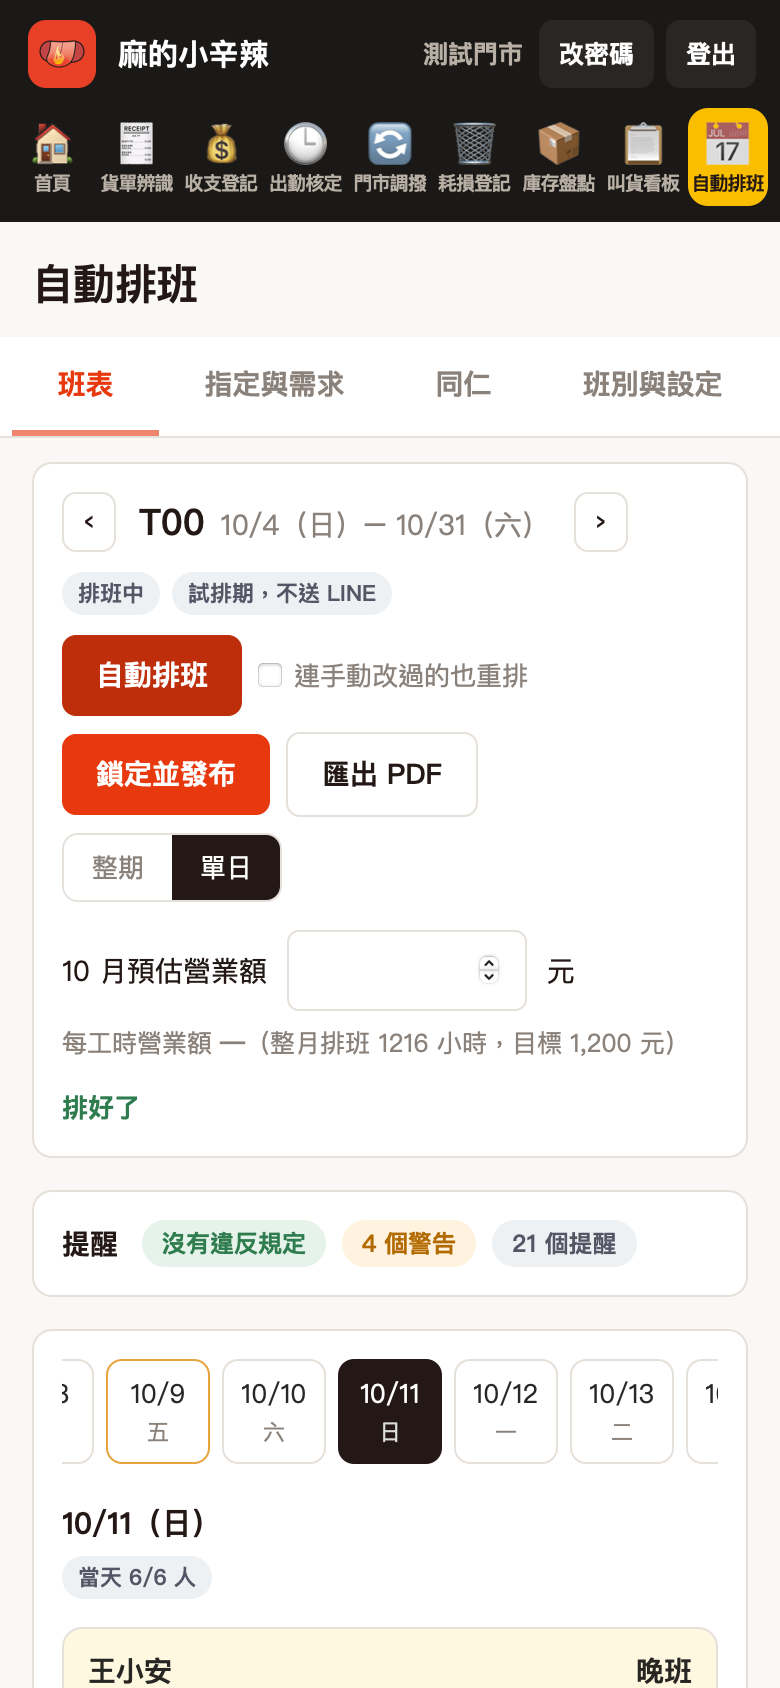
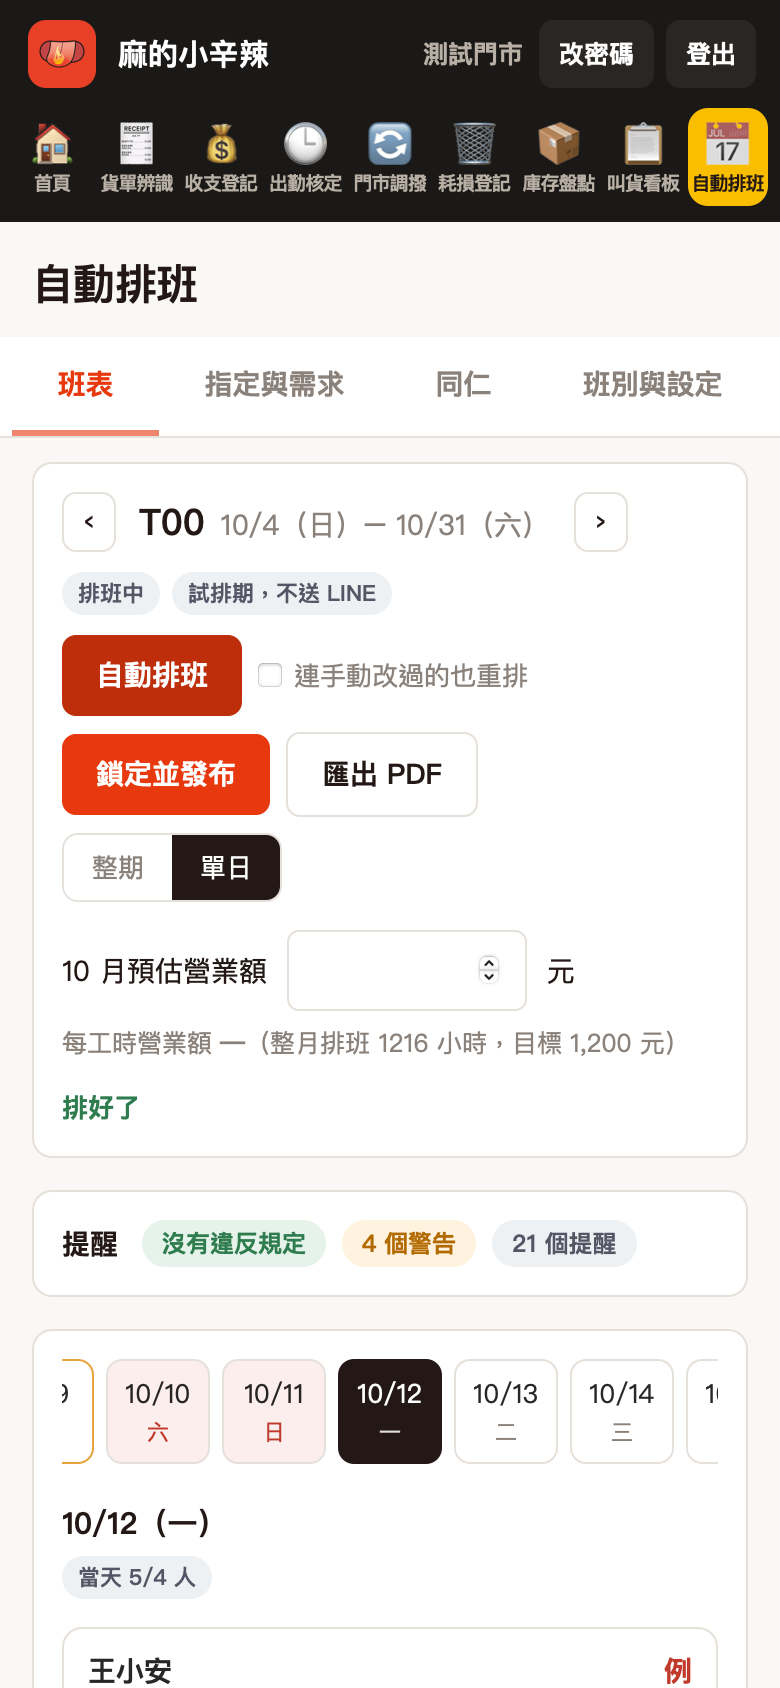
自動排班：班表新配色與休假天數欄（mala-store-ops dbd98ee）

diff --git a/css/schedule.css b/css/schedule.css
@@ -1,4 +1,4 @@
-/* 自動排班。色票沿用 tokens.css；班別底色由班別設定的顏色（--sc-shift）帶入 */
+/* 自動排班。色票沿用 tokens.css；班表格子配色見下方 .sc-grid 變數 */
 .sc-head .sc-period{display:flex;align-items:center;gap:12px}
 .sc-head .sc-period b{font-size:20px;margin-right:8px}
 .sc-range{color:var(--muted);font-size:14px;font-variant-numeric:tabular-nums}
@@ -21,37 +21,43 @@
 .sc-grid th,.sc-grid td{border-bottom:1px solid var(--line);border-right:1px solid var(--line);padding:0;text-align:center;min-width:44px;height:34px}
 .sc-grid thead th{position:sticky;top:0;background:var(--card);font-weight:700;padding:4px 2px;z-index:1}
 .sc-grid thead th small{display:block;font-weight:400;color:var(--muted)}
-.sc-grid thead th.we{background:#e9e4f7} .sc-grid thead th.we small{color:var(--red)} .sc-grid thead th.hol{background:#fff4d1}
+/* 班表配色（Eason 2026-10-12）：班別不分色、一律白底深字；例／休紅字；指定休假暖黃底；六日與國定假日整欄淡紅；生日淡綠。
+   色票集中在這幾個變數，要調色只改這裡。 */
+.sc-grid{--sc-we:#fbeeec;--sc-we-head:#f6dcd8;--sc-off-ink:#c0392b;--sc-pin:#f8ecc4;--sc-bd:#e1f1e6;--sc-bd-ink:#2e7a4f;--sc-leave-ink:#3f6aa8}
+.sc-grid thead th.we{background:var(--sc-we-head)} .sc-grid thead th.we small{color:var(--sc-off-ink)}
+.sc-grid thead th.hol small{color:var(--sc-off-ink);font-weight:700}
 .sc-grid .sc-name{position:sticky;left:0;background:var(--card);text-align:left;padding:0 10px;min-width:84px;z-index:2;white-space:nowrap}
-.sc-grid tbody th{position:sticky;left:0;background:var(--card);text-align:left;padding:0 10px;white-space:nowrap;font-weight:700;z-index:1}
-.sc-c{cursor:pointer;position:relative;--sh-ot:inset 0 0 0 transparent;--sh-bd:inset 0 0 0 transparent;box-shadow:var(--sh-ot),var(--sh-bd)}
-.sc-c.work{background:var(--sc-shift,#fff4d1);font-weight:700}
-.sc-c.ot{--sh-ot:inset 0 -3px 0 #b26a00}
-.sc-c.rest{background:#f1eeeb;color:var(--muted)} .sc-c.off{background:#f7f5f3;color:var(--muted)}
-.sc-c.leave{background:#e8f0fb;color:#2c5aa0}
-/* 六日：整欄淡紫底（有班的格子把班別色往紫色調深）；生日：薄荷綠底＋綠字，班別色改成左邊色條（Eason 2026-10-12） */
-.sc-c.we.rest,.sc-c.we.off,.sc-c.we.empty,.sc-cnt td.we{background:#e9e4f7} .sc-c.we.leave{background:#dfe3f7}
-.sc-c.we.work{background:color-mix(in srgb,var(--sc-shift,#fff4d1) 72%,#a693e0)}
-.sc-c.bd,.sc-c.bd.work,.sc-c.bd.rest,.sc-c.bd.off,.sc-c.bd.leave,.sc-c.bd.empty{background:#cfeedd;color:#1f6b45} .sc-c.bd.work{--sh-bd:inset 6px 0 0 var(--sc-shift,#fff4d1)}
-.sc-c.bd .sc-bd,.sc-drow.bd .sc-bd{color:#1f6b45}
+.sc-grid tbody th{position:sticky;left:0;background:var(--card);text-align:left;padding:4px 10px;white-space:nowrap;font-weight:700;z-index:1}
+.sc-al{display:block;font-size:10px;font-weight:400;color:var(--muted);line-height:1.3}
+.sc-c{cursor:pointer;position:relative;background:#fff;--sh-ot:inset 0 0 0 transparent;box-shadow:var(--sh-ot)}
+.sc-c.work{color:var(--black);font-weight:600}
+.sc-c.ot{--sh-ot:inset 0 -2px 0 #c98a2b}
+.sc-c.rest,.sc-c.off{color:var(--sc-off-ink);font-weight:600}
+.sc-c.leave{color:var(--sc-leave-ink);font-weight:600}
+.sc-c.we{background:var(--sc-we)}
+.sc-c.bd{background:var(--sc-bd)}
+.sc-c.pin-off,.sc-c.pin-off.we,.sc-c.pin-off.bd{background:var(--sc-pin)}
 .sc-c.na{background:repeating-linear-gradient(45deg,#faf8f6,#faf8f6 4px,#f1eeeb 4px,#f1eeeb 8px);cursor:default}
 .sc-c.pin::after{content:"";position:absolute;top:3px;right:3px;width:5px;height:5px;border-radius:50%;background:var(--black)}
 .sc-c.i-block{outline:2px solid var(--bad);outline-offset:-2px} .sc-c.i-warn{outline:2px solid #e8a33d;outline-offset:-2px}
 .sc-c.sel{outline:3px solid var(--black);outline-offset:-3px}
-.sc-bd{display:block;font-style:normal;font-size:9px;color:var(--red);font-weight:700;line-height:1}
+.sc-bd{display:block;font-style:normal;font-size:9px;color:var(--sc-bd-ink,#2e7a4f);font-weight:700;line-height:1}
+.sc-grid .sc-offh{position:sticky;right:0;z-index:2;border-left:1px solid var(--line);min-width:58px}
+.sc-grid .sc-off{position:sticky;right:0;background:#faf8f6;border-left:1px solid var(--line);font-variant-numeric:tabular-nums;padding:2px 4px}
+.sc-off b{display:block;font-size:13px} .sc-off small{display:block;font-size:10px;color:var(--muted);white-space:nowrap}
 .sc-rev{width:64px;border:1px solid var(--line);border-radius:4px;padding:3px;font:inherit;font-size:11px;text-align:right}
 .sc-ratio.low,.low{color:#b26a00;font-weight:700} .sc-ratio.good,.good{color:var(--ok)}
-.sc-cnt td{font-size:11px;color:var(--muted)} .sc-cnt td.short{color:var(--bad);font-weight:700;background:#fdf0ee}
+.sc-cnt td{font-size:11px;color:var(--muted)} .sc-cnt td.we{background:var(--sc-we)} .sc-cnt td.short{color:var(--bad);font-weight:700;background:#fdf0ee}
 .sc-total{margin:10px 4px 0}
 .sc-days{display:flex;gap:6px;overflow-x:auto;padding-bottom:4px}
 .sc-daychip{border:1px solid var(--line);background:#fff;border-radius:8px;padding:6px 8px;font:inherit;font-size:13px;min-width:52px;cursor:pointer}
 .sc-daychip small{display:block;color:var(--muted);font-size:11px}
 .sc-daychip.on{background:var(--black);color:#fff;border-color:var(--black)} .sc-daychip.on small{color:#ddd}
-.sc-daychip.warn{border-color:#e8a33d} .sc-daychip.we:not(.on){background:#e9e4f7}
+.sc-daychip.warn{border-color:#e8a33d} .sc-daychip.we:not(.on){background:#fbeeec} .sc-daychip.we:not(.on) small{color:#c0392b}
 .sc-dlist{display:grid;gap:6px}
 .sc-drow{display:grid;grid-template-columns:1fr auto;gap:2px 10px;text-align:left;border:1px solid var(--line);border-radius:10px;padding:10px 12px;background:#fff;font:inherit;cursor:pointer}
-.sc-drow.work{background:var(--sc-shift,#fff8e1)} .sc-drow.rest,.sc-drow.off{color:var(--muted)} .sc-drow.leave{background:#eef4fc}
-.sc-drow.bd,.sc-drow.bd.work,.sc-drow.bd.leave{background:#cfeedd}
+.sc-drow.rest .sc-dv,.sc-drow.off .sc-dv{color:#c0392b} .sc-drow.leave .sc-dv{color:#3f6aa8}
+.sc-drow.bd{background:#e1f1e6} .sc-drow.pin-off{background:#f8ecc4} .sc-drow .sc-al{margin-top:2px}
 .sc-drow.i-block{border-color:var(--bad)} .sc-drow.i-warn{border-color:#e8a33d}
 .sc-dn{font-weight:700} .sc-dv{text-align:right;font-weight:700} .sc-dv small{display:block;font-weight:400;color:var(--muted)}
 .sc-dmsg{grid-column:1/-1;font-size:12px;color:var(--bad)}
@@ -89,5 +95,6 @@
   .sc-grid .sc-name{min-width:0;padding:0 3px}
   .sc-c.i-block,.sc-c.i-warn,.sc-c.sel{outline:0}
   .sc-c.pin::after{display:none}
-  .sc-c.work,.sc-c.rest,.sc-c.off,.sc-c.leave,.sc-c.empty,.sc-cnt td,.sc-grid thead th.hol,.sc-grid thead th.we{-webkit-print-color-adjust:exact;print-color-adjust:exact}
+  .sc-grid .sc-off,.sc-grid .sc-offh{position:static!important}
+  .sc-c,.sc-cnt td,.sc-off,.sc-grid thead th.we{-webkit-print-color-adjust:exact;print-color-adjust:exact}
 }

diff --git a/modules/schedule/board.js b/modules/schedule/board.js
@@ -8,7 +8,7 @@ const PUB_TEXT = { pending: '等待送到 LINE', sent: '已發布到 LINE', fail
 
 function cellText(c, shifts) {
   if (!c) return { t: '', cls: 'empty' };
-  if (c.shift_id) { const s = shifts[c.shift_id]; return { t: s ? s.name : c.shift_id, cls: 'work' + (c.day_type === 'H' ? ' ot' : ''), color: s && s.color }; }
+  if (c.shift_id) { const s = shifts[c.shift_id]; return { t: s ? s.name : c.shift_id, cls: 'work' + (c.day_type === 'H' ? ' ot' : '') }; }
   if (c.day_type === 'L') return { t: LEAVE_LABEL[c.leave] || '假', cls: 'leave' };
   if (c.day_type === 'W') return { t: '?', cls: 'empty' };
   return { t: DAY_LABEL[c.day_type] || '', cls: c.day_type === 'R' ? 'rest' : 'off' };
@@ -35,7 +35,21 @@ export function renderBoard(ctx) {
   const pub = D.meta.publication;
   const bday = (st, d) => st.birthday && st.birthday.slice(5) === d.slice(5);
   // 六日、同仁生日各有底色（Eason 2026-10-12）
-  const isWe = (d) => { const w = weekday(d); return w === 0 || w === 6; };
+  const isWe = (d) => { const w = weekday(d); return w === 0 || w === 6 || !!D.holidays.days[d]; };   // 六日與國定假日同一個淡紅底（Eason 2026-10-12）
+  // 本期休假天數＝例假＋休息日（沒出勤）＋請假；請假另外分列（Eason 2026-10-12）
+  const offOf = (st) => {
+    let n = 0; const lv = {};
+    for (const d of D.dates) {
+      if ((st.hire_date && st.hire_date > d) || (st.leave_date && d > st.leave_date)) continue;
+      const c = (D.days[st.emp_id] || {})[d];
+      if (!c || c.shift_id) continue;
+      if (c.day_type === 'R' || c.day_type === 'H') n++;
+      else if (c.day_type === 'L') { n++; const k = LEAVE_LABEL[c.leave] || '假'; lv[k] = (lv[k] || 0) + 1; }
+    }
+    return { n, lv };
+  };
+  // 名字下方的剩餘特休：薪資系統的餘額（D.annual，拿不到就不顯示）
+  const annualTxt = (st) => { const a = D.annual && D.annual[st.emp_id]; return a == null ? '' : `<small class="sc-al">特休剩 ${a} 天</small>`; };
 
   const ratioCls = (r) => (r == null || !target ? '' : r < target ? ' low' : ' good');
   // 當天總人數（Eason 2026-10-11：不分班別，只看當天幾個人上班）；需要人數＝各班最少人數加總
@@ -78,7 +92,7 @@ export function renderBoard(ctx) {
 
   let body;
   if (view === 'grid') {
-    const th = D.dates.map((d) => { const w = weekday(d), hol = D.holidays.days[d]; return `<th class="${w === 0 || w === 6 ? 'we' : ''}${hol ? ' hol' : ''}" title="${esc(hol || '')}">${md(d)}<small>${WD[w]}${hol ? '・國' : ''}</small></th>`; }).join('');
+    const th = D.dates.map((d) => { const w = weekday(d), hol = D.holidays.days[d]; return `<th class="${isWe(d) ? 'we' : ''}${hol ? ' hol' : ''}" title="${esc(hol || '')}">${md(d)}<small>${WD[w]}${hol ? '・國' : ''}</small></th>`; }).join('');
     const rows = staff.map((st) => {
       const tds = D.dates.map((d) => {
         const c = (D.days[st.emp_id] || {})[d];
@@ -88,16 +102,18 @@ export function renderBoard(ctx) {
         const lv = iss.length ? iss.sort((a, b) => LV_RANK[a.level] - LV_RANK[b.level])[0].level : '';
         const pin = (D.pins[st.emp_id] || {})[d];
         const sel = S.sel && S.sel.emp === st.emp_id && S.sel.date === d;
-        return `<td class="sc-c ${x.cls}${isWe(d) ? ' we' : ''}${bday(st, d) ? ' bd' : ''}${lv ? ' i-' + lv : ''}${sel ? ' sel' : ''}${pin ? ' pin' : ''}" data-emp="${esc(st.emp_id)}" data-date="${d}" title="${esc(iss.map((r) => r.msg).join('\n'))}" ${x.color ? `style="--sc-shift:${esc(x.color)}"` : ''}>${esc(x.t)}${bday(st, d) ? '<i class="sc-bd" title="生日">生日</i>' : ''}</td>`;
+        const pinCls = !pin ? '' : pin.kind === 'off' ? ' pin-off' : ' pin';   // 指定休假：黃底；指定上班／班別：右上小黑點
+        return `<td class="sc-c ${x.cls}${isWe(d) ? ' we' : ''}${bday(st, d) ? ' bd' : ''}${lv ? ' i-' + lv : ''}${sel ? ' sel' : ''}${pinCls}" data-emp="${esc(st.emp_id)}" data-date="${d}" title="${esc(iss.map((r) => r.msg).concat(pin && pin.kind === 'off' ? ['指定休假'] : []).join('\n'))}">${esc(x.t)}${bday(st, d) ? '<i class="sc-bd" title="生日">生日</i>' : ''}</td>`;
       }).join('');
-      return `<tr><th class="sc-name" scope="row">${esc(st.name)}</th>${tds}</tr>`;
+      const o = offOf(st), lvs = Object.entries(o.lv).map(([k, v]) => k + ' ' + v).join('・');
+      return `<tr><th class="sc-name" scope="row">${esc(st.name)}${annualTxt(st)}</th>${tds}<td class="sc-off"><b>${o.n}</b>${lvs ? `<small>${esc(lvs)}</small>` : ''}</td></tr>`;
     }).join('');
     const cnt = `<tr class="sc-cnt"><th scope="row">當天人數</th>${D.dates.map((d) => {
       const n = dayTotal(d), need = dayNeed(d);
       return `<td class="${need && n < need ? 'short' : ''}${isWe(d) ? ' we' : ''}" title="${need ? `至少要 ${need} 人` : '沒有設人數'}">${n}${need ? '/' + need : ''}</td>`;
-    }).join('')}</tr>`;
+    }).join('')}<td class="sc-off"></td></tr>`;
     body = `<div class="card sc-gridcard"><div class="scroll"><table class="sc-grid">
-      <thead><tr><th class="sc-name">同仁</th>${th}</tr></thead>
+      <thead><tr><th class="sc-name">同仁</th>${th}<th class="sc-offh">休假<small>天數</small></th></tr></thead>
       <tbody>${rows}${cnt}</tbody></table></div></div>`;
   } else {
     const d = S.day, hol = D.holidays.days[d];
@@ -105,8 +121,9 @@ export function renderBoard(ctx) {
     const list = staff.filter((st) => (!st.hire_date || st.hire_date <= d) && (!st.leave_date || d <= st.leave_date)).map((st) => {
       const c = (D.days[st.emp_id] || {})[d], x = cellText(c, shifts), iss = byCell[st.emp_id + '|' + d] || [];
       const s = c && c.shift_id ? shifts[c.shift_id] : null;
-      return `<button type="button" class="sc-drow ${x.cls}${bday(st, d) ? ' bd' : ''}${iss.length ? ' i-' + iss.sort((a, b) => LV_RANK[a.level] - LV_RANK[b.level])[0].level : ''}" data-emp="${esc(st.emp_id)}" data-date="${d}">
-        <span class="sc-dn">${esc(st.name)}${bday(st, d) ? ' <i class="sc-bd">生日</i>' : ''}</span><span class="sc-dv">${esc(x.t)}${s ? `<small>${esc(s.start)}–${esc(s.end)}</small>` : ''}</span>
+      const pin = (D.pins[st.emp_id] || {})[d];
+      return `<button type="button" class="sc-drow ${x.cls}${bday(st, d) ? ' bd' : ''}${pin && pin.kind === 'off' ? ' pin-off' : ''}${iss.length ? ' i-' + iss.sort((a, b) => LV_RANK[a.level] - LV_RANK[b.level])[0].level : ''}" data-emp="${esc(st.emp_id)}" data-date="${d}">
+        <span class="sc-dn">${esc(st.name)}${bday(st, d) ? ' <i class="sc-bd">生日</i>' : ''}${annualTxt(st)}</span><span class="sc-dv">${esc(x.t)}${s ? `<small>${esc(s.start)}–${esc(s.end)}</small>` : ''}</span>
         ${iss.length ? `<span class="sc-dmsg">${esc(iss.map((i) => i.msg).join('；'))}</span>` : ''}</button>`;
     }).join('');
     const n = dayTotal(d), nd = dayNeed(d);
